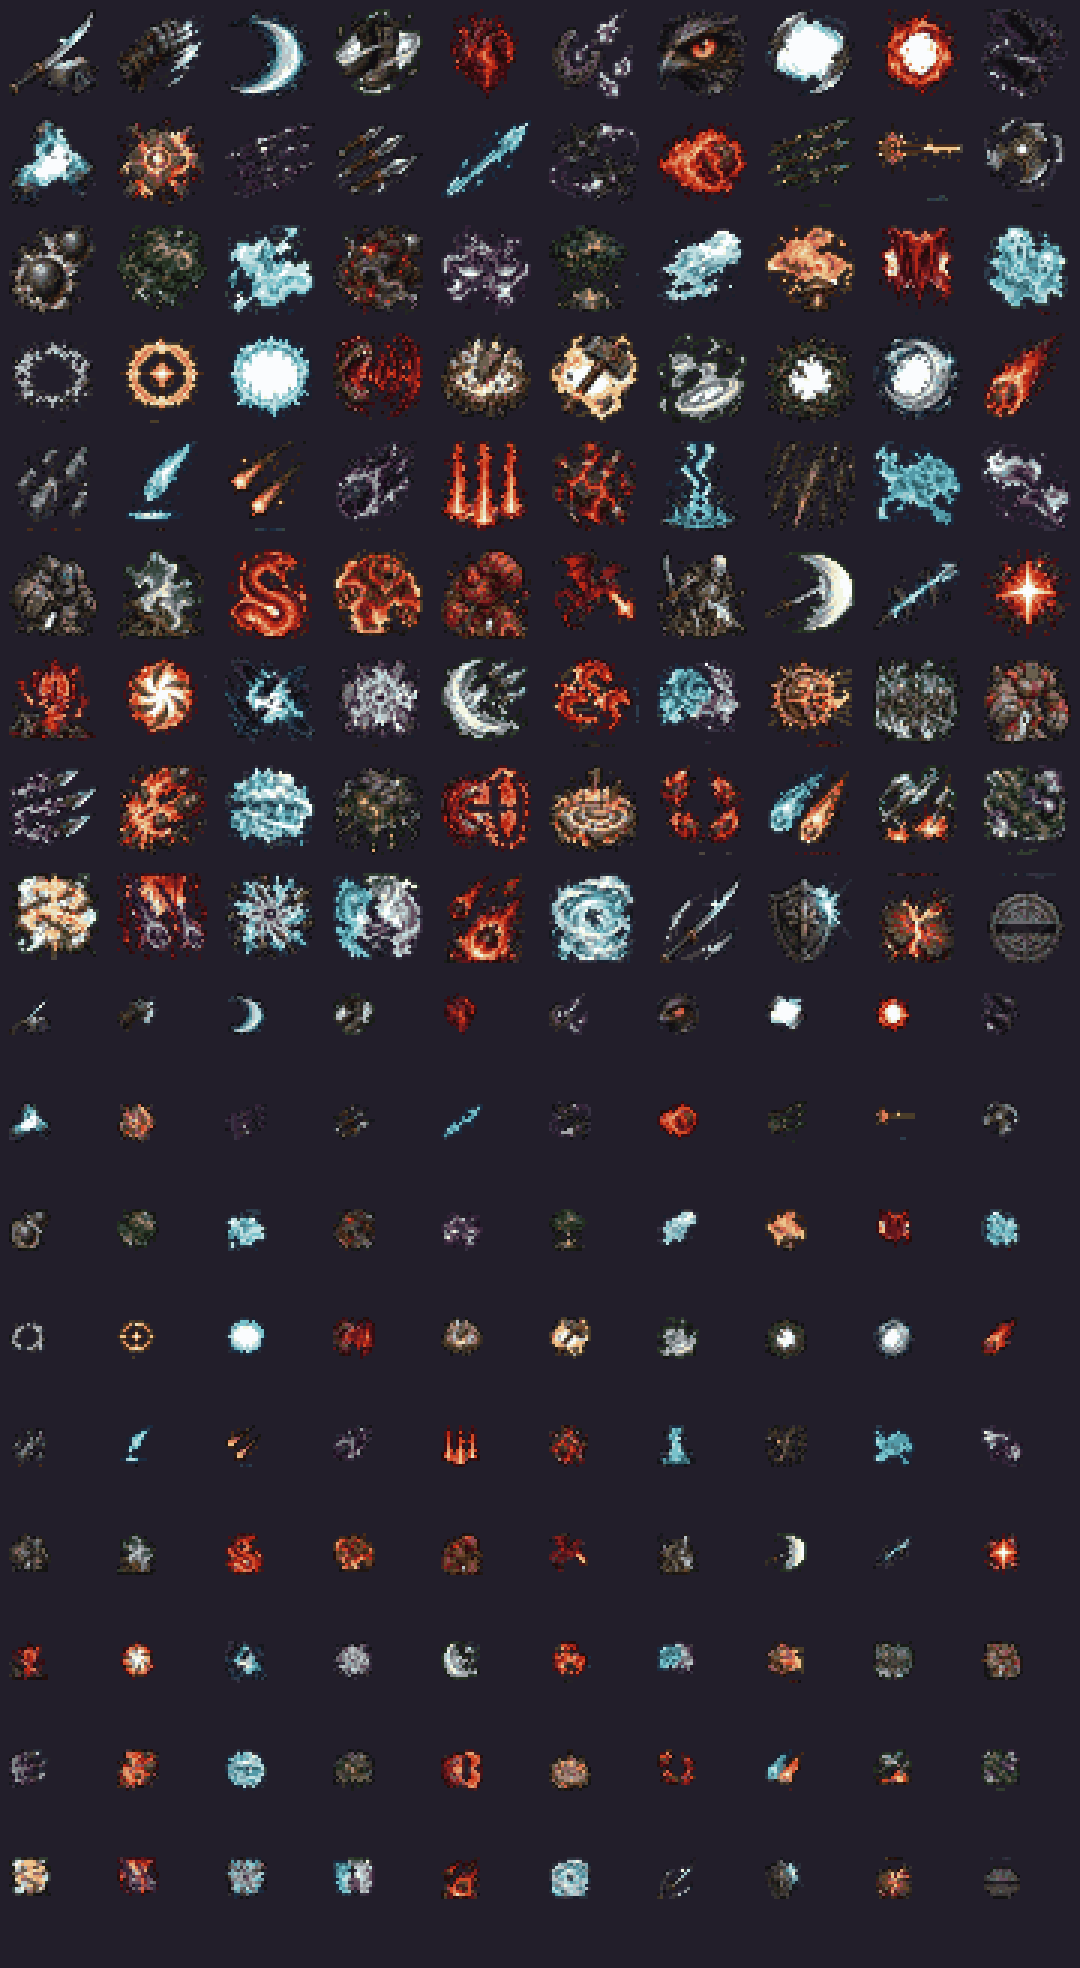
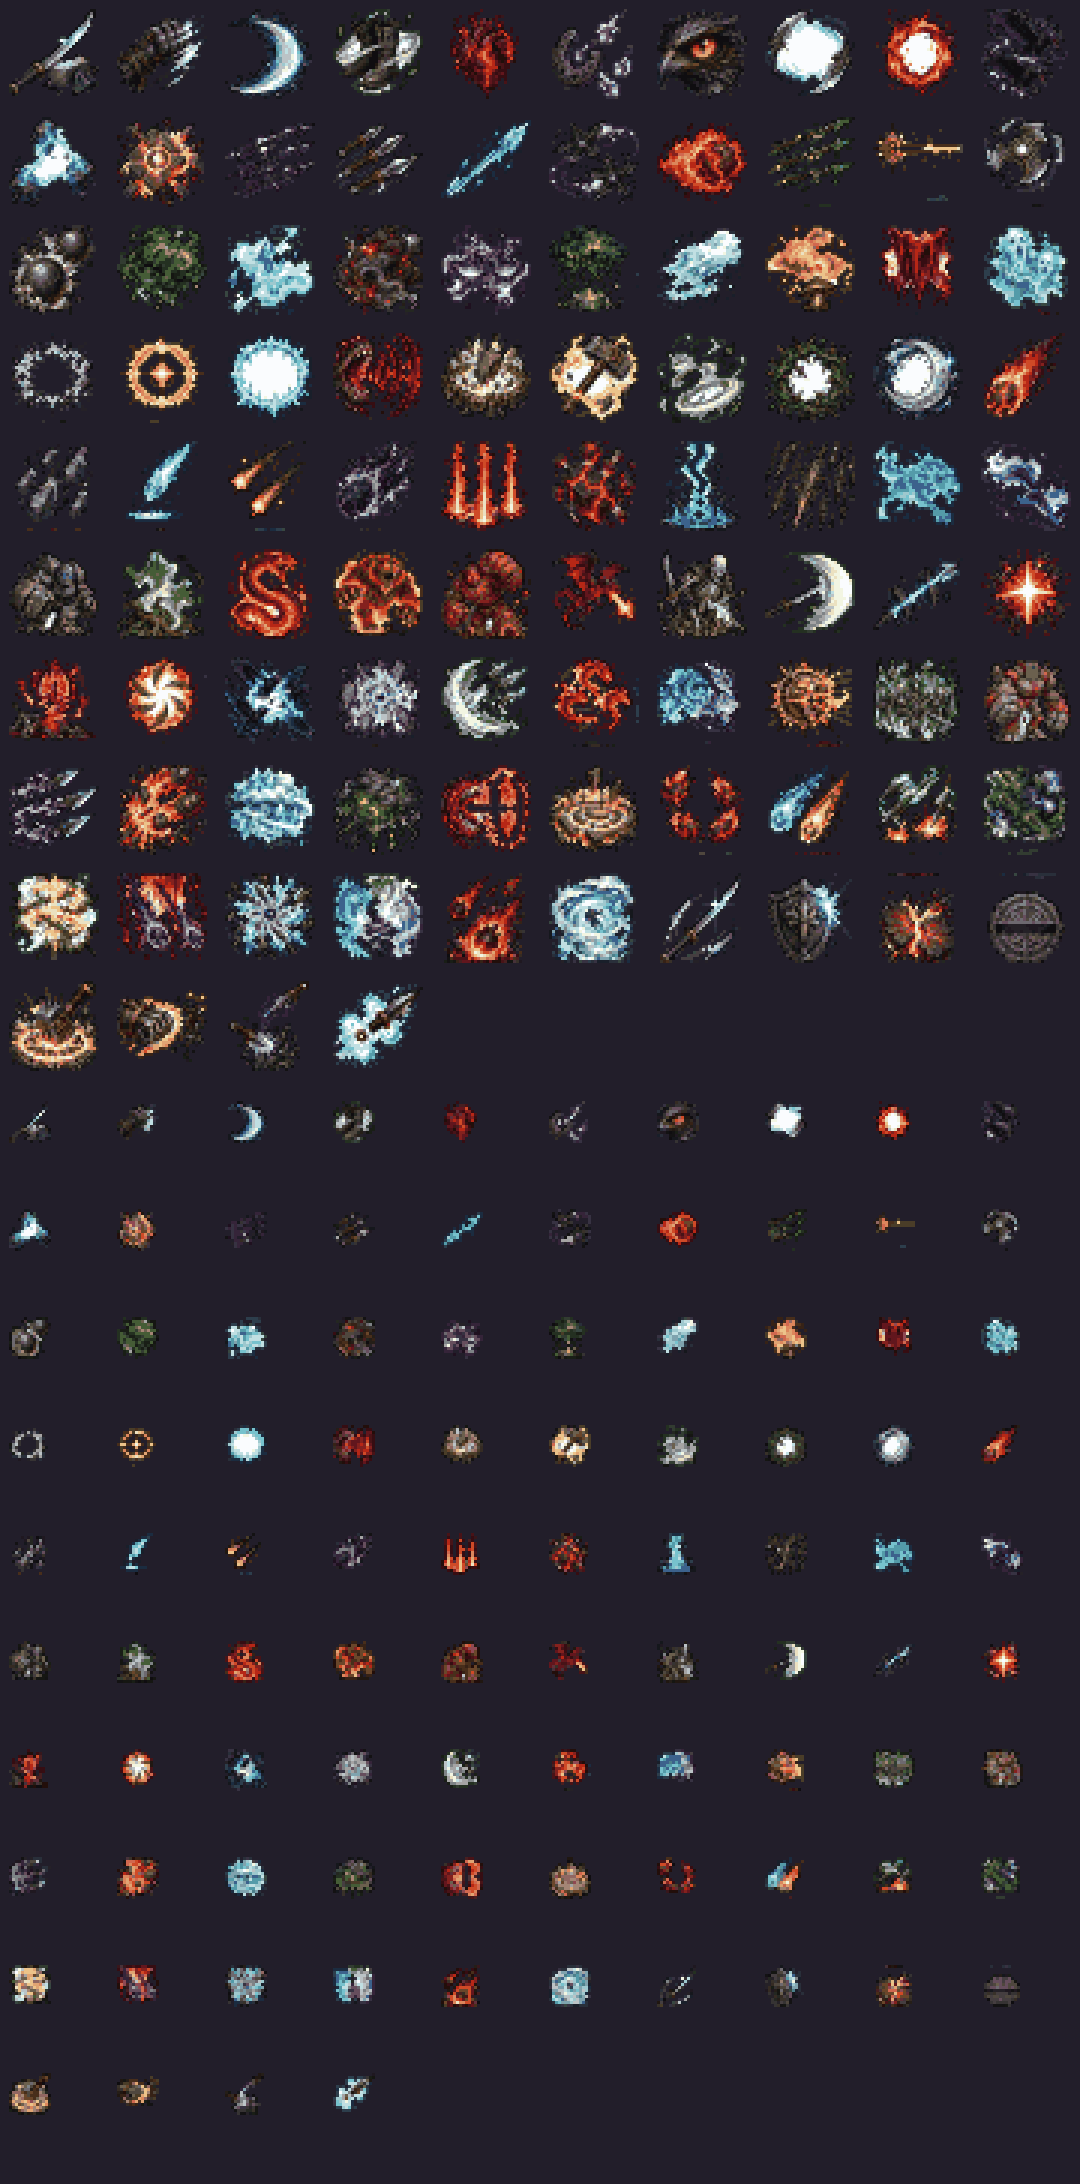
Ícones próprios das cartas do Nicão e do Lucas (folha 09 do #278)
O gerador aceita a célula com descrição no INDICE.md e folha com 1-2 px de diferença; os 90 ícones anteriores ficam como estavam.

diff --git a/jogos/hordas/prototipos/cara_nova/objetos/gerar_objetos.py b/jogos/hordas/prototipos/cara_nova/objetos/gerar_objetos.py
@@ -1284,7 +1284,7 @@ def ler_indice_icones():
             if m:
                 folha = int(m.group(1))
                 continue
-            m = re.match(r"\| (\d+) \| ([^|]+?) / ([^|]+?) \|", linha)
+            m = re.match(r"\| (\d+)[^|]*\| ([^|]+?) / ([^|]+?) \|", linha)  # a célula pode trazer "(linha 1, coluna 1; ...)"
             if m and folha is not None:
                 itens.append((folha, int(m.group(1)), m.group(2).strip(), m.group(3).strip()))
     return itens
@@ -1336,6 +1336,11 @@ def gerar_icones():
         if folha not in folhas:
             caminho = os.path.join(ICONES_FONTE, "folha_%02d.png" % folha)
             im = Image.open(caminho).convert("RGB")
+            if im.size != esperado and abs(im.width - esperado[0]) <= 4 and abs(im.height - esperado[1]) <= 4:
+                # o gerador de imagem às vezes entrega 1-2 px a mais ou a menos: completa com branco ou corta a sobra
+                tela = Image.new("RGB", esperado, (255, 255, 255))
+                tela.paste(im, (0, 0))
+                im = tela
             if im.size != esperado:
                 raise SystemExit("%s: %dx%d, esperado %dx%d" % (caminho, im.width, im.height, esperado[0], esperado[1]))
             folhas[folha] = im
